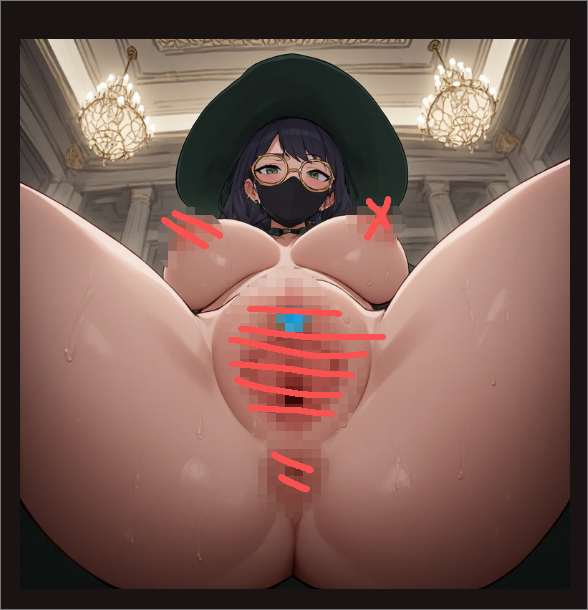
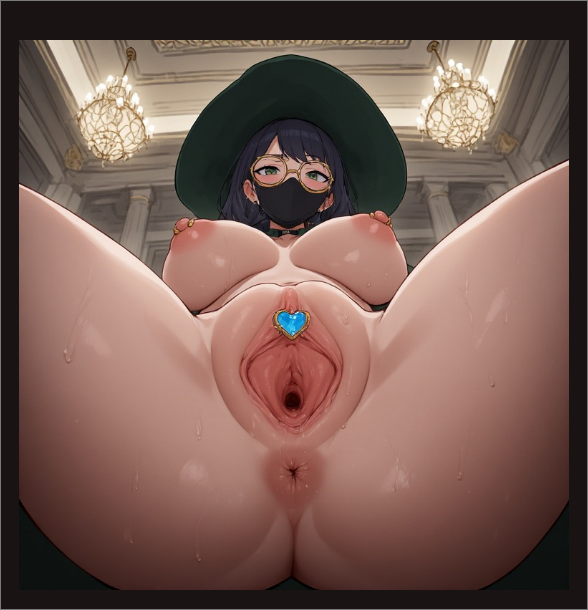
暂时的正式版

diff --git a/complete/tremolo_plugin/include/Tremolo/Tremolo.h b/complete/tremolo_plugin/include/Tremolo/Tremolo.h
@@ -1,5 +1,6 @@
 #pragma once
 #include <juce_dsp/juce_dsp.h>
+#include "Defaults.h"
 
 namespace tremolo {
 
@@ -23,16 +24,20 @@ public:
   void setXYValues(float x, float y) noexcept {
     xValue = x;  // 当前X值
     yValue = y;  // 当前Y值
-    
-    // 根据XY位置计算增益（距离中心点越近，增益越大）
-    constexpr float targetX = 0.5f;  // 目标点X坐标
-    constexpr float targetY = 0.38f;  // 目标点Y坐标
-    
+
+    // 根据XY位置计算增益（距离目标点越近，增益越大）
+    constexpr float targetX = tremolo::defaults::xyTargetX;  // 目标点X坐标
+    constexpr float targetY = tremolo::defaults::xyTargetY;  // 目标点Y坐标
+
     // 计算到目标点的距离
     const auto distanceToTarget = std::sqrt(std::pow(x - targetX, 2.0f) + std::pow(y - targetY, 2.0f));
-    
+
     // 将距离映射到增益（maxGain到1.0）
     gainBoost = juce::jmap(distanceToTarget, 0.0f, std::sqrt(0.5f), maxGain, 1.0f);
+
+    // 将距离映射到“公式映射湿度”：距离=0 -> 1(全湿)，距离>=阈值 -> 0(全干)
+    const auto threshold = juce::jmax(0.0001f, tremolo::defaults::sawWetDistanceThreshold);
+    sawWet = juce::jlimit(0.0f, 1.0f, 1.0f - (distanceToTarget / threshold));
   }
 
   // 设置最大增益值
@@ -63,6 +68,14 @@ public:
     constexpr float thresholdHigh = 1.0f;   // 软削波上限阈值
     constexpr float thresholdLow = -1.0f;   // 负向阈值
 
+    // 公式映射参数（来自 Defaults）
+    constexpr float pi = 3.14159265358979323846f;
+    const auto A = tremolo::defaults::sawMapA;
+    const auto B = tremolo::defaults::sawMapB;
+    const auto C = tremolo::defaults::sawMapC;
+
+    const auto bTerm = (B * 20.0f + 1.0f);
+
     // 处理每个音频帧
     for (const auto frameIndex : std::views::iota(0, buffer.getNumSamples())) {
       // 处理每个通道
@@ -70,10 +83,19 @@ public:
         // 获取输入样本
         const auto inputSample = buffer.getSample(channelIndex, frameIndex);
 
+        // === 公式映射（在 clipper 之前，且用于干湿混合）===
+        // y = asinh(x*A*10)/pi + (round((-x/2)*(B*20+1)) - (-x/2)*(B*20+1)) * C
+        const auto x = inputSample;
+        const auto t = (-x * 0.5f) * bTerm;
+        const auto mapped = (std::asinh(x * A * 10.0f) / pi) + ((std::round(t) - t) * C);
+
+        // 根据目标点距离进行干湿混合：距离越近湿度越大
+        const auto mixed = (1.0f - sawWet) * x + sawWet * mapped;
+
         // === 主信号处理 ===
         // 应用增益提升（基于XY控制器位置）
-        const auto boostedSample = inputSample * gainBoost;
-        
+        const auto boostedSample = mixed * gainBoost;
+
         // 应用Clipper算法（硬限制）防止削波失真
         const auto clippedSample = juce::jlimit(thresholdLow, thresholdHigh, boostedSample);
 
@@ -81,7 +103,6 @@ public:
         buffer.setSample(channelIndex, frameIndex, clippedSample);
       }
     }
-    
   }
 
   // 重置所有状态
@@ -117,10 +138,10 @@ private:
   void updateLevelDetection() noexcept {
     // 将峰值电平转换为dB
     const auto peakDB = juce::Decibels::gainToDecibels(peakLevel);
-    
+
     // 检查是否超过阈值
     const bool isAboveThreshold = peakDB > thresholdDB;
-    
+
     // 如果从低于阈值变为高于阈值，触发闪烁
     if (isAboveThreshold && !wasAboveThreshold) {
       // 记录本次触发与上次触发的间隔（从第二次触发开始才有意义）
@@ -156,10 +177,10 @@ private:
       isFlashing = true;
       flashTimer = flashDurationSeconds;
     }
-    
+
     // 更新状态
     wasAboveThreshold = isAboveThreshold;
-    
+
     // 重置峰值电平用于下一帧检测
     peakLevel = 0.0f;
   }
@@ -170,7 +191,8 @@ private:
   float yValue = 0.4f;        // 当前Y值
   float gainBoost = 1.0f;     // 当前增益值（基于XY位置计算）
   float maxGain = 4.0f;       // 最大增益值（由控制条设置）
-  
+  float sawWet = 0.0f;        // 公式映射湿度（0=全干，1=全湿）
+
   // 信号检测相关参数
   float peakLevel = 0.0f;            // 峰值电平
   bool isFlashing = false;           // 指示灯闪烁状态

diff --git a/complete/tremolo_plugin/include/Tremolo/Defaults.h b/complete/tremolo_plugin/include/Tremolo/Defaults.h
@@ -8,8 +8,12 @@ inline constexpr float modulationRateHz = 5.0f;
 inline constexpr bool bypassed = false;
 inline constexpr int waveformIndex = 0; // 0=Sine
 
-inline constexpr float xyX = 0.5f;
-inline constexpr float xyY = 0.3f;
+inline constexpr float xyX = 1.0f;
+inline constexpr float xyY = 1.0f;
+
+// XY 目标点：距离该点越近，效果越强（用于DSP映射与UI十字标记）
+inline constexpr float xyTargetX = 0.5f;
+inline constexpr float xyTargetY = 0.38f;
 
 // XY 控制器布局（像素）：固定尺寸 + 左上角偏移
 inline constexpr int xyControllerWidthPx = 550;
@@ -20,6 +24,14 @@ inline constexpr int xyControllerTopPx = 40;
 // XY 控制点（tone.png）绘制尺寸（像素）：以图片中心点作为坐标
 inline constexpr int xyToneMarkerWidthPx = 59;
 inline constexpr int xyToneMarkerHeightPx = 75;
+
+// 公式映射（锯齿化）默认参数：x' = asinh(x*A*10)/pi + (round((-x/2)*(B*20+1))-(-x/2)*(B*20+1))*C
+inline constexpr float sawMapA = 1.0f;
+inline constexpr float sawMapB = 1.0f;
+inline constexpr float sawMapC = 0.2f;
+
+// XY 到“公式映射湿度”的距离阈值：距离>=阈值为纯干声；距离=0为纯湿声
+inline constexpr float sawWetDistanceThreshold = 0.25f;
 
 // 设置按钮布局（像素）：固定尺寸 + 左上角偏移
 inline constexpr int settingsButtonWidthPx = 27;
@@ -44,7 +56,7 @@ inline constexpr float levelCaptureWindowMsSkew = 0.4f;
 inline constexpr float levelCaptureWindowMsSkewMid = 60.0f;
 
 // 输入检测滤波器默认值（Hz）
-inline constexpr float inputHighpassHz = 1300.0f;
+inline constexpr float inputHighpassHz = 20.0f;
 inline constexpr float inputLowpassHz = 20000.0f;
 
 // 电平检测阈值默认值（dB）

diff --git a/complete/tremolo_plugin/source/PluginEditor.cpp b/complete/tremolo_plugin/source/PluginEditor.cpp
@@ -1,3 +1,7 @@
+#include "../include/Tremolo/PluginEditor.h"
+#include "../include/Tremolo/Defaults.h"
+#include <TremoloPluginAssets.h>
+
 // tremolo命名空间：C++中使用命名空间来组织代码，避免命名冲突
 namespace tremolo {
 
@@ -287,9 +291,9 @@ void XYController::paint(juce::Graphics& g) {
     g.setColour(juce::Colour(0xFF888888));
     g.drawRect(bounds, 2.0f);
     
-    // 目标点坐标（与Tremolo.h中保持一致）
-    constexpr float targetX = 0.5f;
-    constexpr float targetY = 0.38f;
+    // 目标点坐标（与 Defaults.h 中保持一致）
+    constexpr float targetX = tremolo::defaults::xyTargetX;
+    constexpr float targetY = tremolo::defaults::xyTargetY;
     
     // 绘制目标点标记（绿色十字）
     float targetXPos = targetX * bounds.getWidth();
